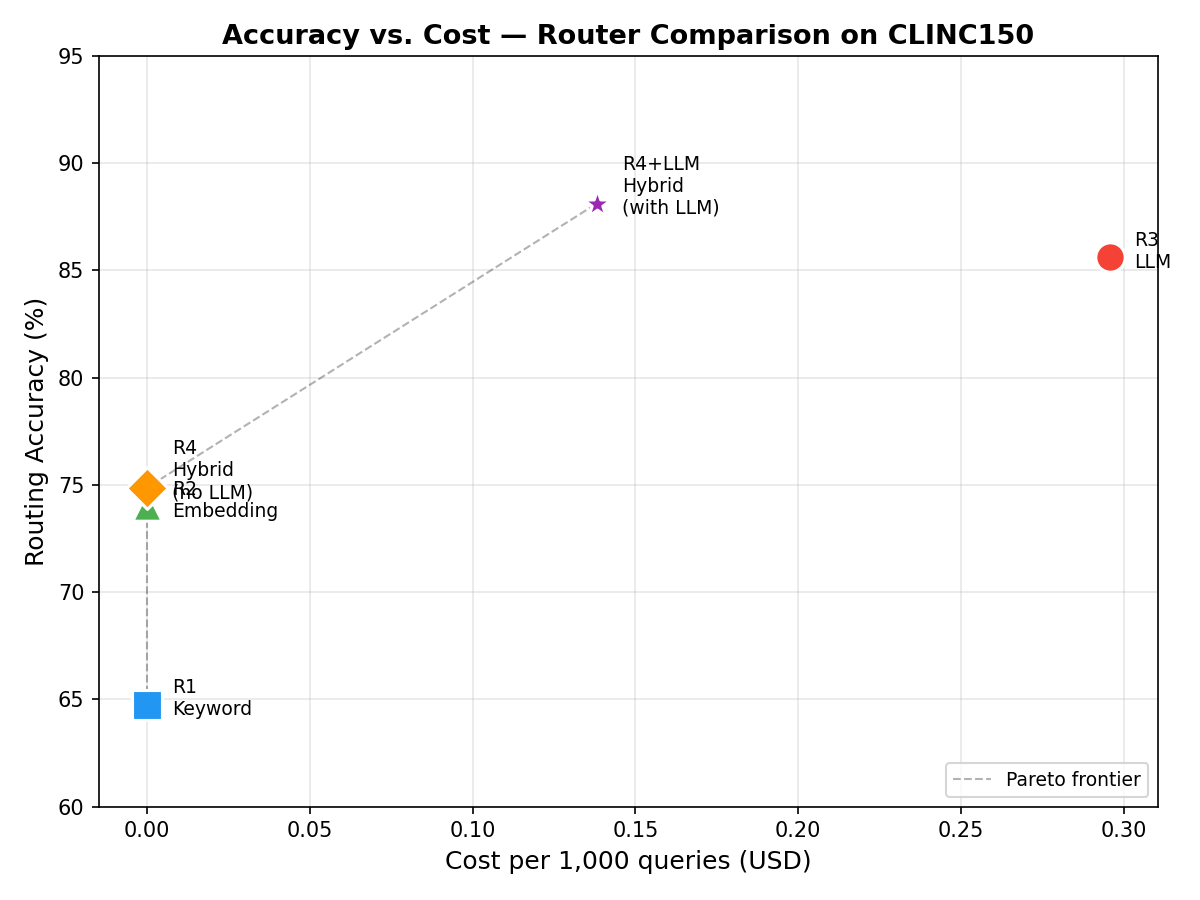
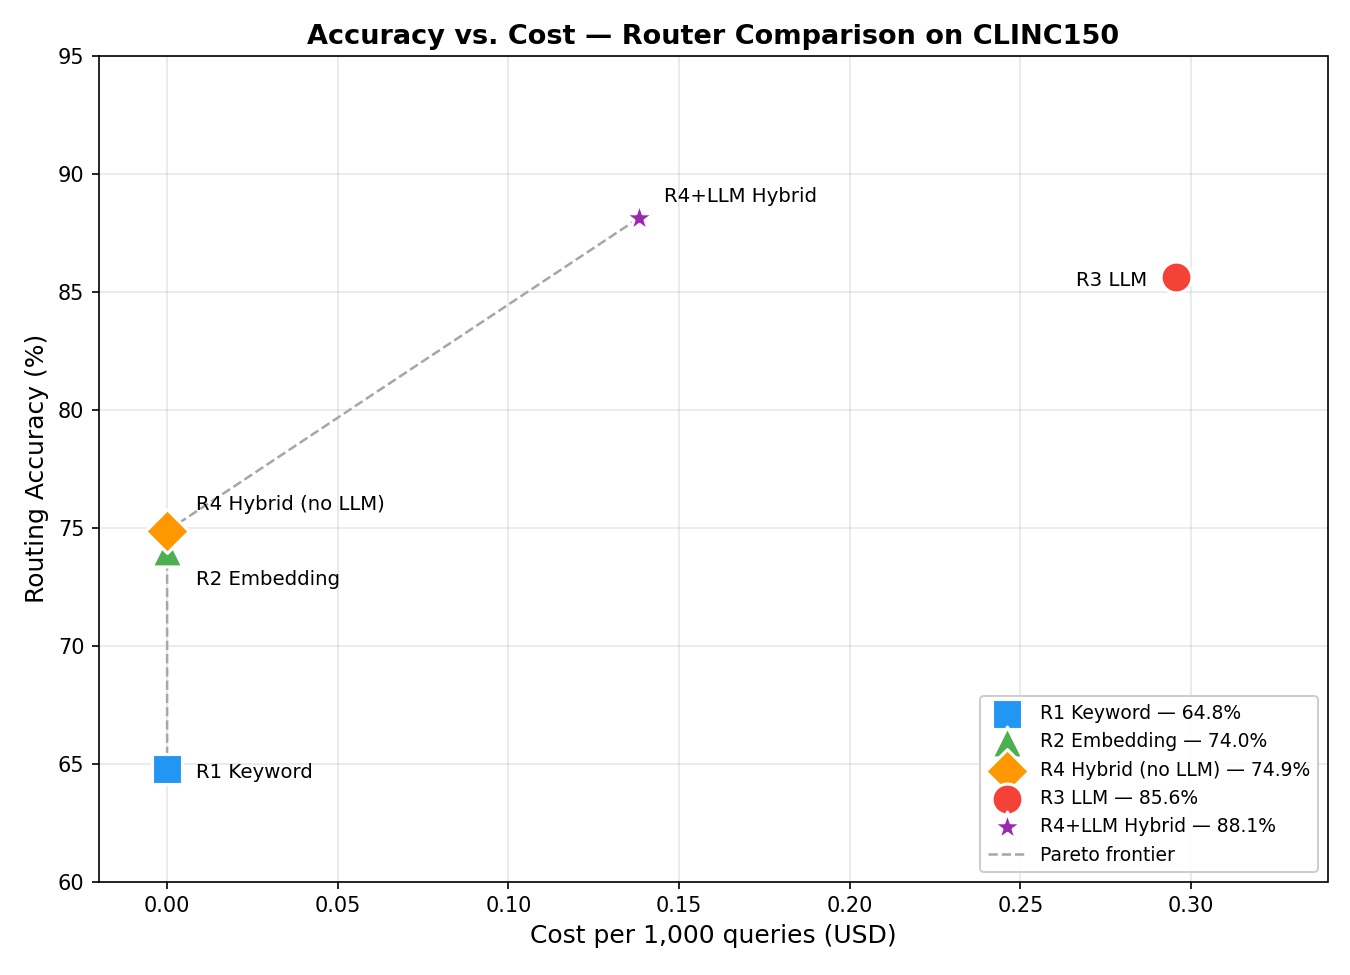
Improve Pareto plot: fix overlapping labels on zero-cost routers

diff --git a/src/analysis.py b/src/analysis.py
@@ -27,62 +27,85 @@ with open(RESULTS_DIR / "metrics.json") as f:
 # ─────────────────────────────────────────────
 
 def plot_accuracy_vs_cost():
-    fig, ax = plt.subplots(figsize=(8, 6))
+    fig, ax = plt.subplots(figsize=(9, 6.5))
 
     # 為了公平比較，把成本標準化到「每 1000 query 的美元成本」
-    routers = {
-        "R1\nKeyword": {"acc": metrics["R1_keyword"]["accuracy"], "cost_per_1k": 0},
-        "R2\nEmbedding": {"acc": metrics["R2_embedding"]["accuracy"], "cost_per_1k": 0},
-        "R4\nHybrid\n(no LLM)": {"acc": metrics["R4_hybrid_no_llm"]["accuracy"], "cost_per_1k": 0},
-    }
+    # 每個 router 自訂 marker / color / 標籤偏移，避免左邊 zero-cost 點重疊
+    routers = [
+        {
+            "key": "R1_keyword", "label": "R1 Keyword",
+            "acc": metrics["R1_keyword"]["accuracy"], "cost_per_1k": 0,
+            "color": "#2196F3", "marker": "s",
+            "xytext": (14, -4), "ha": "left",
+        },
+        {
+            "key": "R2_embedding", "label": "R2 Embedding",
+            "acc": metrics["R2_embedding"]["accuracy"], "cost_per_1k": 0,
+            "color": "#4CAF50", "marker": "^",
+            "xytext": (14, -16), "ha": "left",
+        },
+        {
+            "key": "R4_hybrid_no_llm", "label": "R4 Hybrid (no LLM)",
+            "acc": metrics["R4_hybrid_no_llm"]["accuracy"], "cost_per_1k": 0,
+            "color": "#FF9800", "marker": "D",
+            "xytext": (14, 10), "ha": "left",
+        },
+    ]
 
     if "R3_llm" in metrics:
         r3 = metrics["R3_llm"]
         cost_per_q = r3["cost_usd"] / r3["sample_size"]
-        routers["R3\nLLM"] = {"acc": r3["accuracy"], "cost_per_1k": cost_per_q * 1000}
+        routers.append({
+            "key": "R3_llm", "label": "R3 LLM",
+            "acc": r3["accuracy"], "cost_per_1k": cost_per_q * 1000,
+            "color": "#F44336", "marker": "o",
+            "xytext": (-14, -4), "ha": "right",
+        })
 
     if "R4_hybrid_with_llm" in metrics:
         r4l = metrics["R4_hybrid_with_llm"]
         cost_per_q = r4l["cost_usd"] / r4l["sample_size"]
-        routers["R4+LLM\nHybrid\n(with LLM)"] = {"acc": r4l["accuracy"], "cost_per_1k": cost_per_q * 1000}
+        routers.append({
+            "key": "R4_hybrid_with_llm", "label": "R4+LLM Hybrid",
+            "acc": r4l["accuracy"], "cost_per_1k": cost_per_q * 1000,
+            "color": "#9C27B0", "marker": "*",
+            "xytext": (12, 8), "ha": "left",
+        })
 
-    colors = ["#2196F3", "#4CAF50", "#FF9800", "#F44336", "#9C27B0"]
-    markers = ["s", "^", "D", "o", "*"]
-
-    for i, (name, data) in enumerate(routers.items()):
+    for r in routers:
         ax.scatter(
-            data["cost_per_1k"], data["acc"] * 100,
-            s=200, c=colors[i], marker=markers[i],
-            zorder=5, edgecolors="white", linewidths=1.5
+            r["cost_per_1k"], r["acc"] * 100,
+            s=220, c=r["color"], marker=r["marker"],
+            zorder=5, edgecolors="white", linewidths=1.5,
+            label=f'{r["label"]} — {r["acc"]*100:.1f}%',
         )
-        # Label offset
-        offset_x = 0.005 if data["cost_per_1k"] == 0 else -0.02
         ax.annotate(
-            name,
-            (data["cost_per_1k"], data["acc"] * 100),
+            r["label"],
+            (r["cost_per_1k"], r["acc"] * 100),
             textcoords="offset points",
-            xytext=(12, -5),
-            fontsize=9,
-            ha="left"
+            xytext=r["xytext"],
+            fontsize=9.5, ha=r["ha"],
+            fontweight="medium",
         )
 
     # Pareto frontier line (connect non-dominated points)
-    points = sorted(routers.items(), key=lambda x: x[1]["cost_per_1k"])
+    points = sorted(routers, key=lambda x: x["cost_per_1k"])
     pareto_x, pareto_y = [], []
     best_acc = 0
-    for name, data in points:
-        if data["acc"] >= best_acc:
-            pareto_x.append(data["cost_per_1k"])
-            pareto_y.append(data["acc"] * 100)
-            best_acc = data["acc"]
-    ax.plot(pareto_x, pareto_y, "k--", alpha=0.3, linewidth=1, label="Pareto frontier")
+    for r in points:
+        if r["acc"] >= best_acc:
+            pareto_x.append(r["cost_per_1k"])
+            pareto_y.append(r["acc"] * 100)
+            best_acc = r["acc"]
+    ax.plot(pareto_x, pareto_y, "k--", alpha=0.35, linewidth=1.2, label="Pareto frontier", zorder=1)
 
     ax.set_xlabel("Cost per 1,000 queries (USD)", fontsize=12)
     ax.set_ylabel("Routing Accuracy (%)", fontsize=12)
     ax.set_title("Accuracy vs. Cost — Router Comparison on CLINC150", fontsize=13, fontweight="bold")
     ax.set_ylim(60, 95)
+    ax.set_xlim(-0.02, 0.34)
     ax.grid(True, alpha=0.3)
-    ax.legend(loc="lower right", fontsize=9)
+    ax.legend(loc="lower right", fontsize=9, framealpha=0.95)
 
     plt.tight_layout()
     out = FIGURES_DIR / "accuracy_vs_cost.png"
